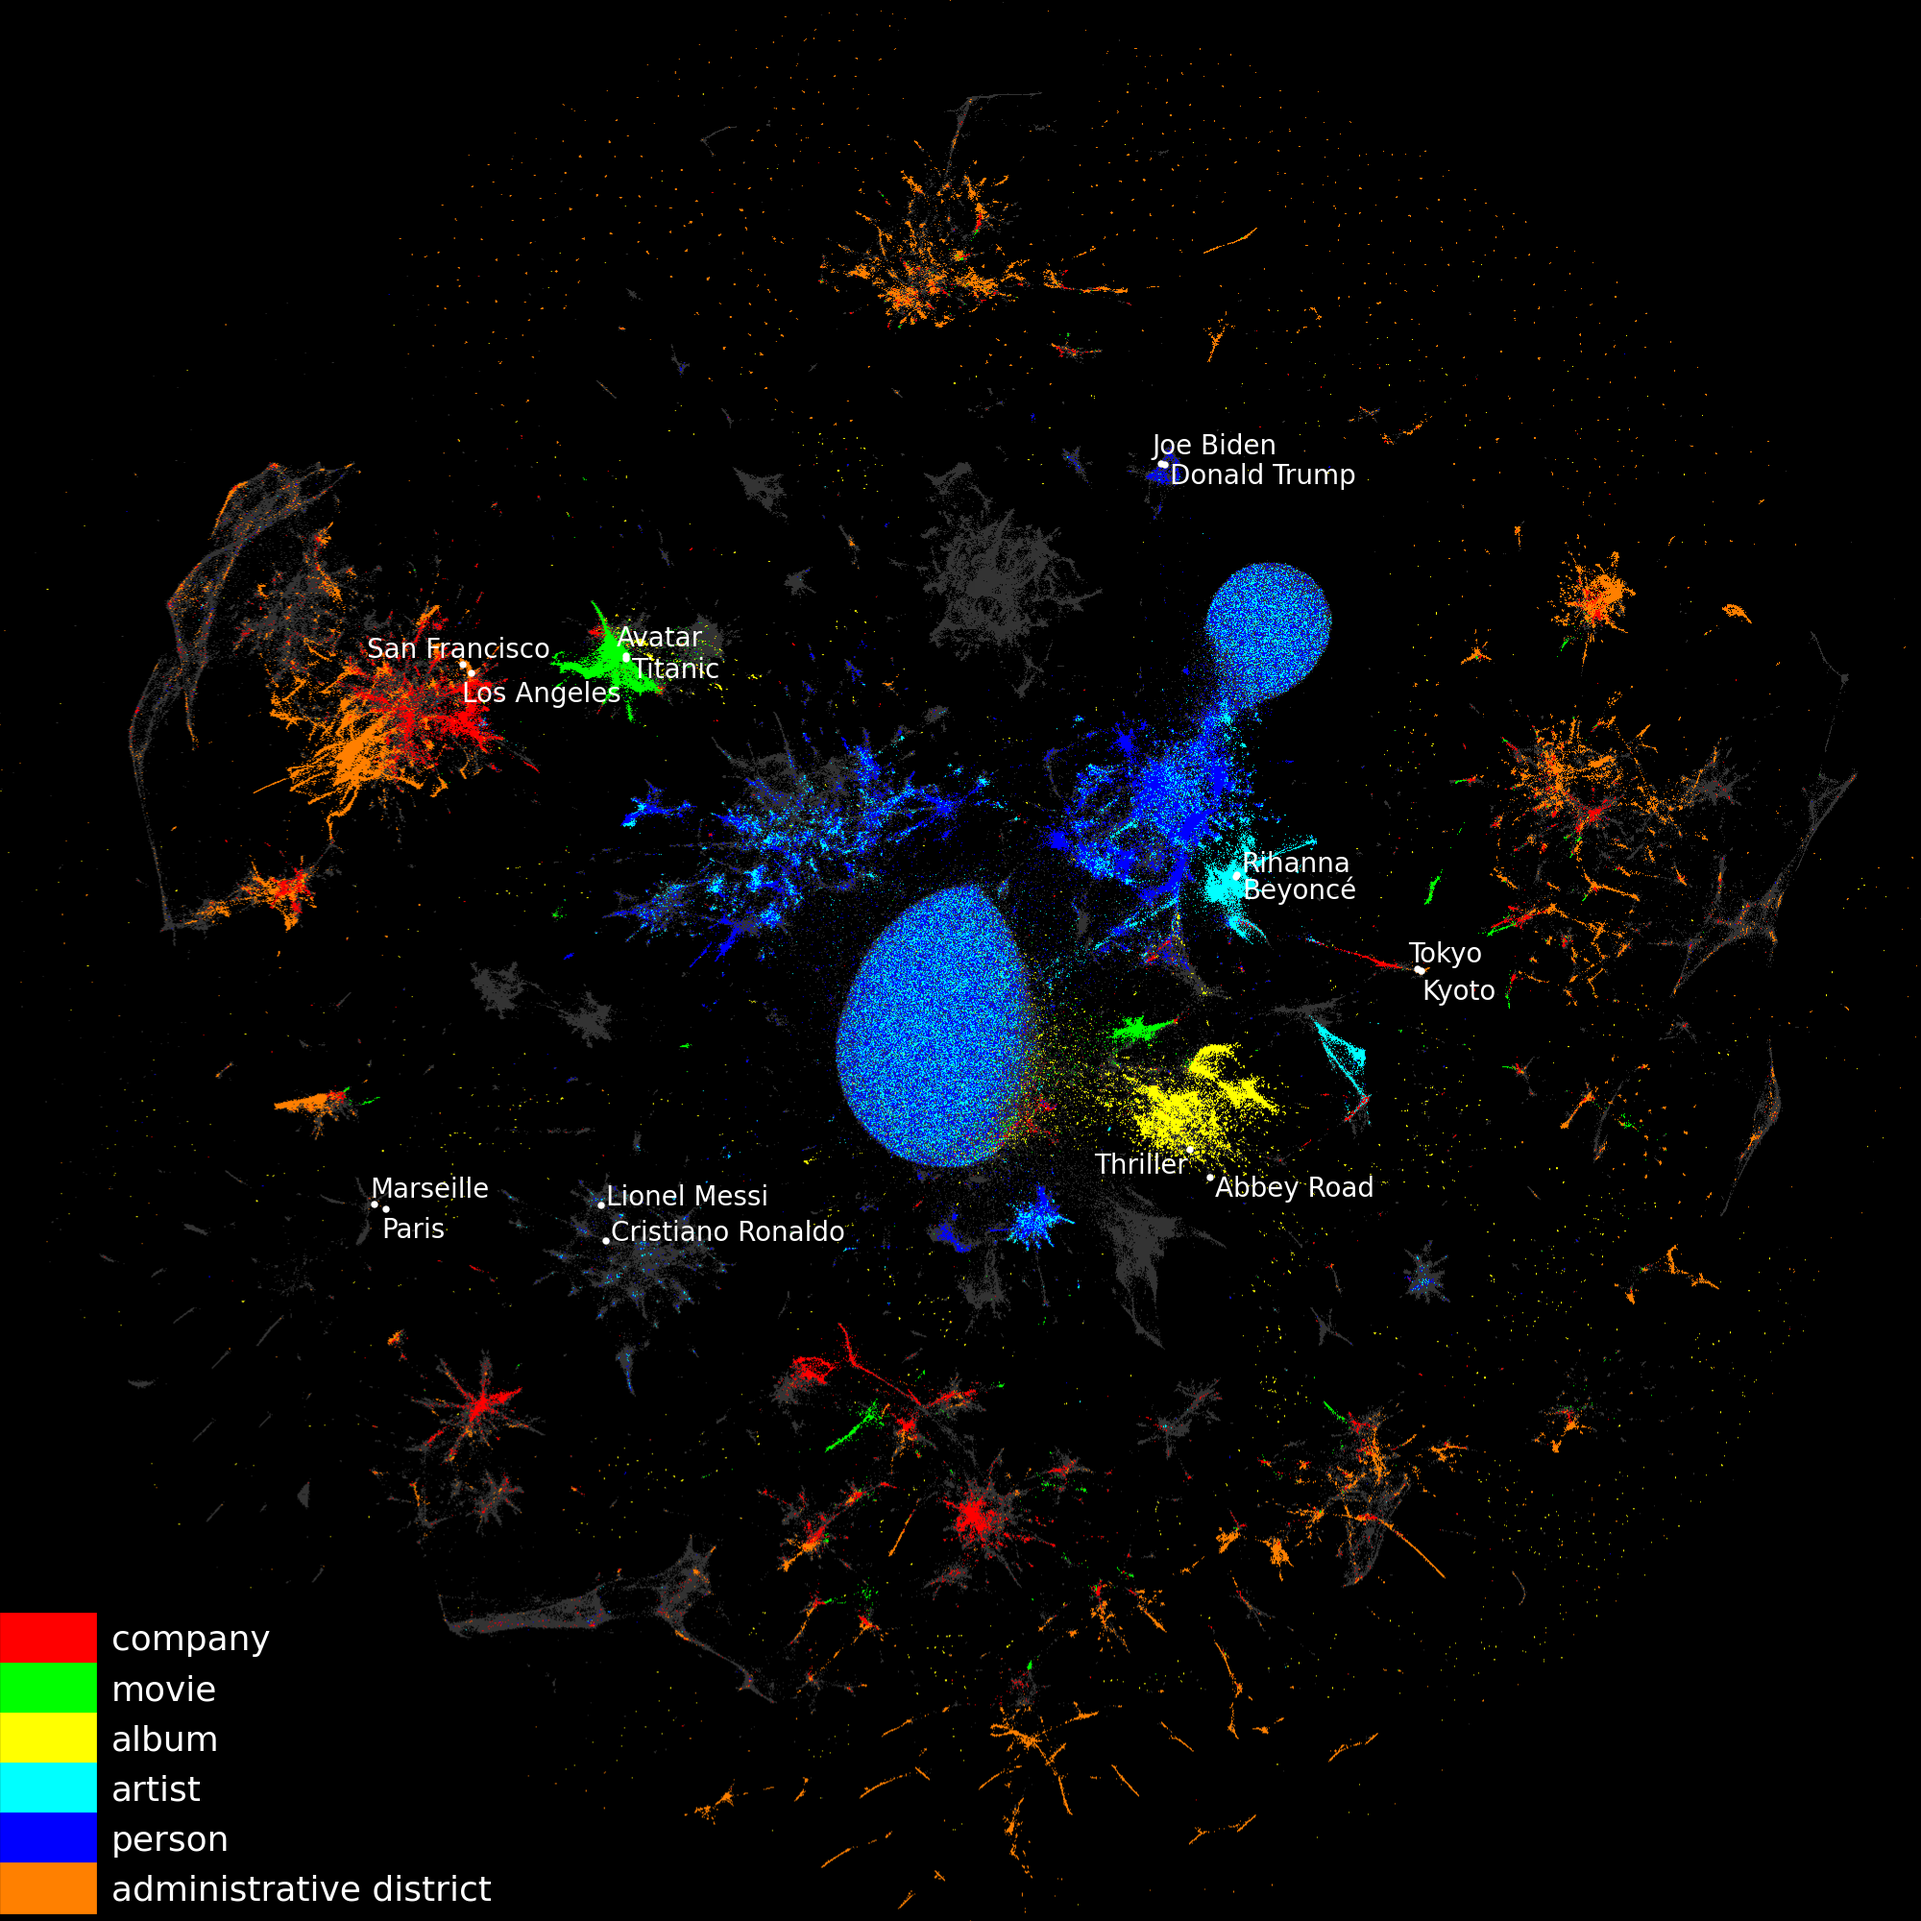
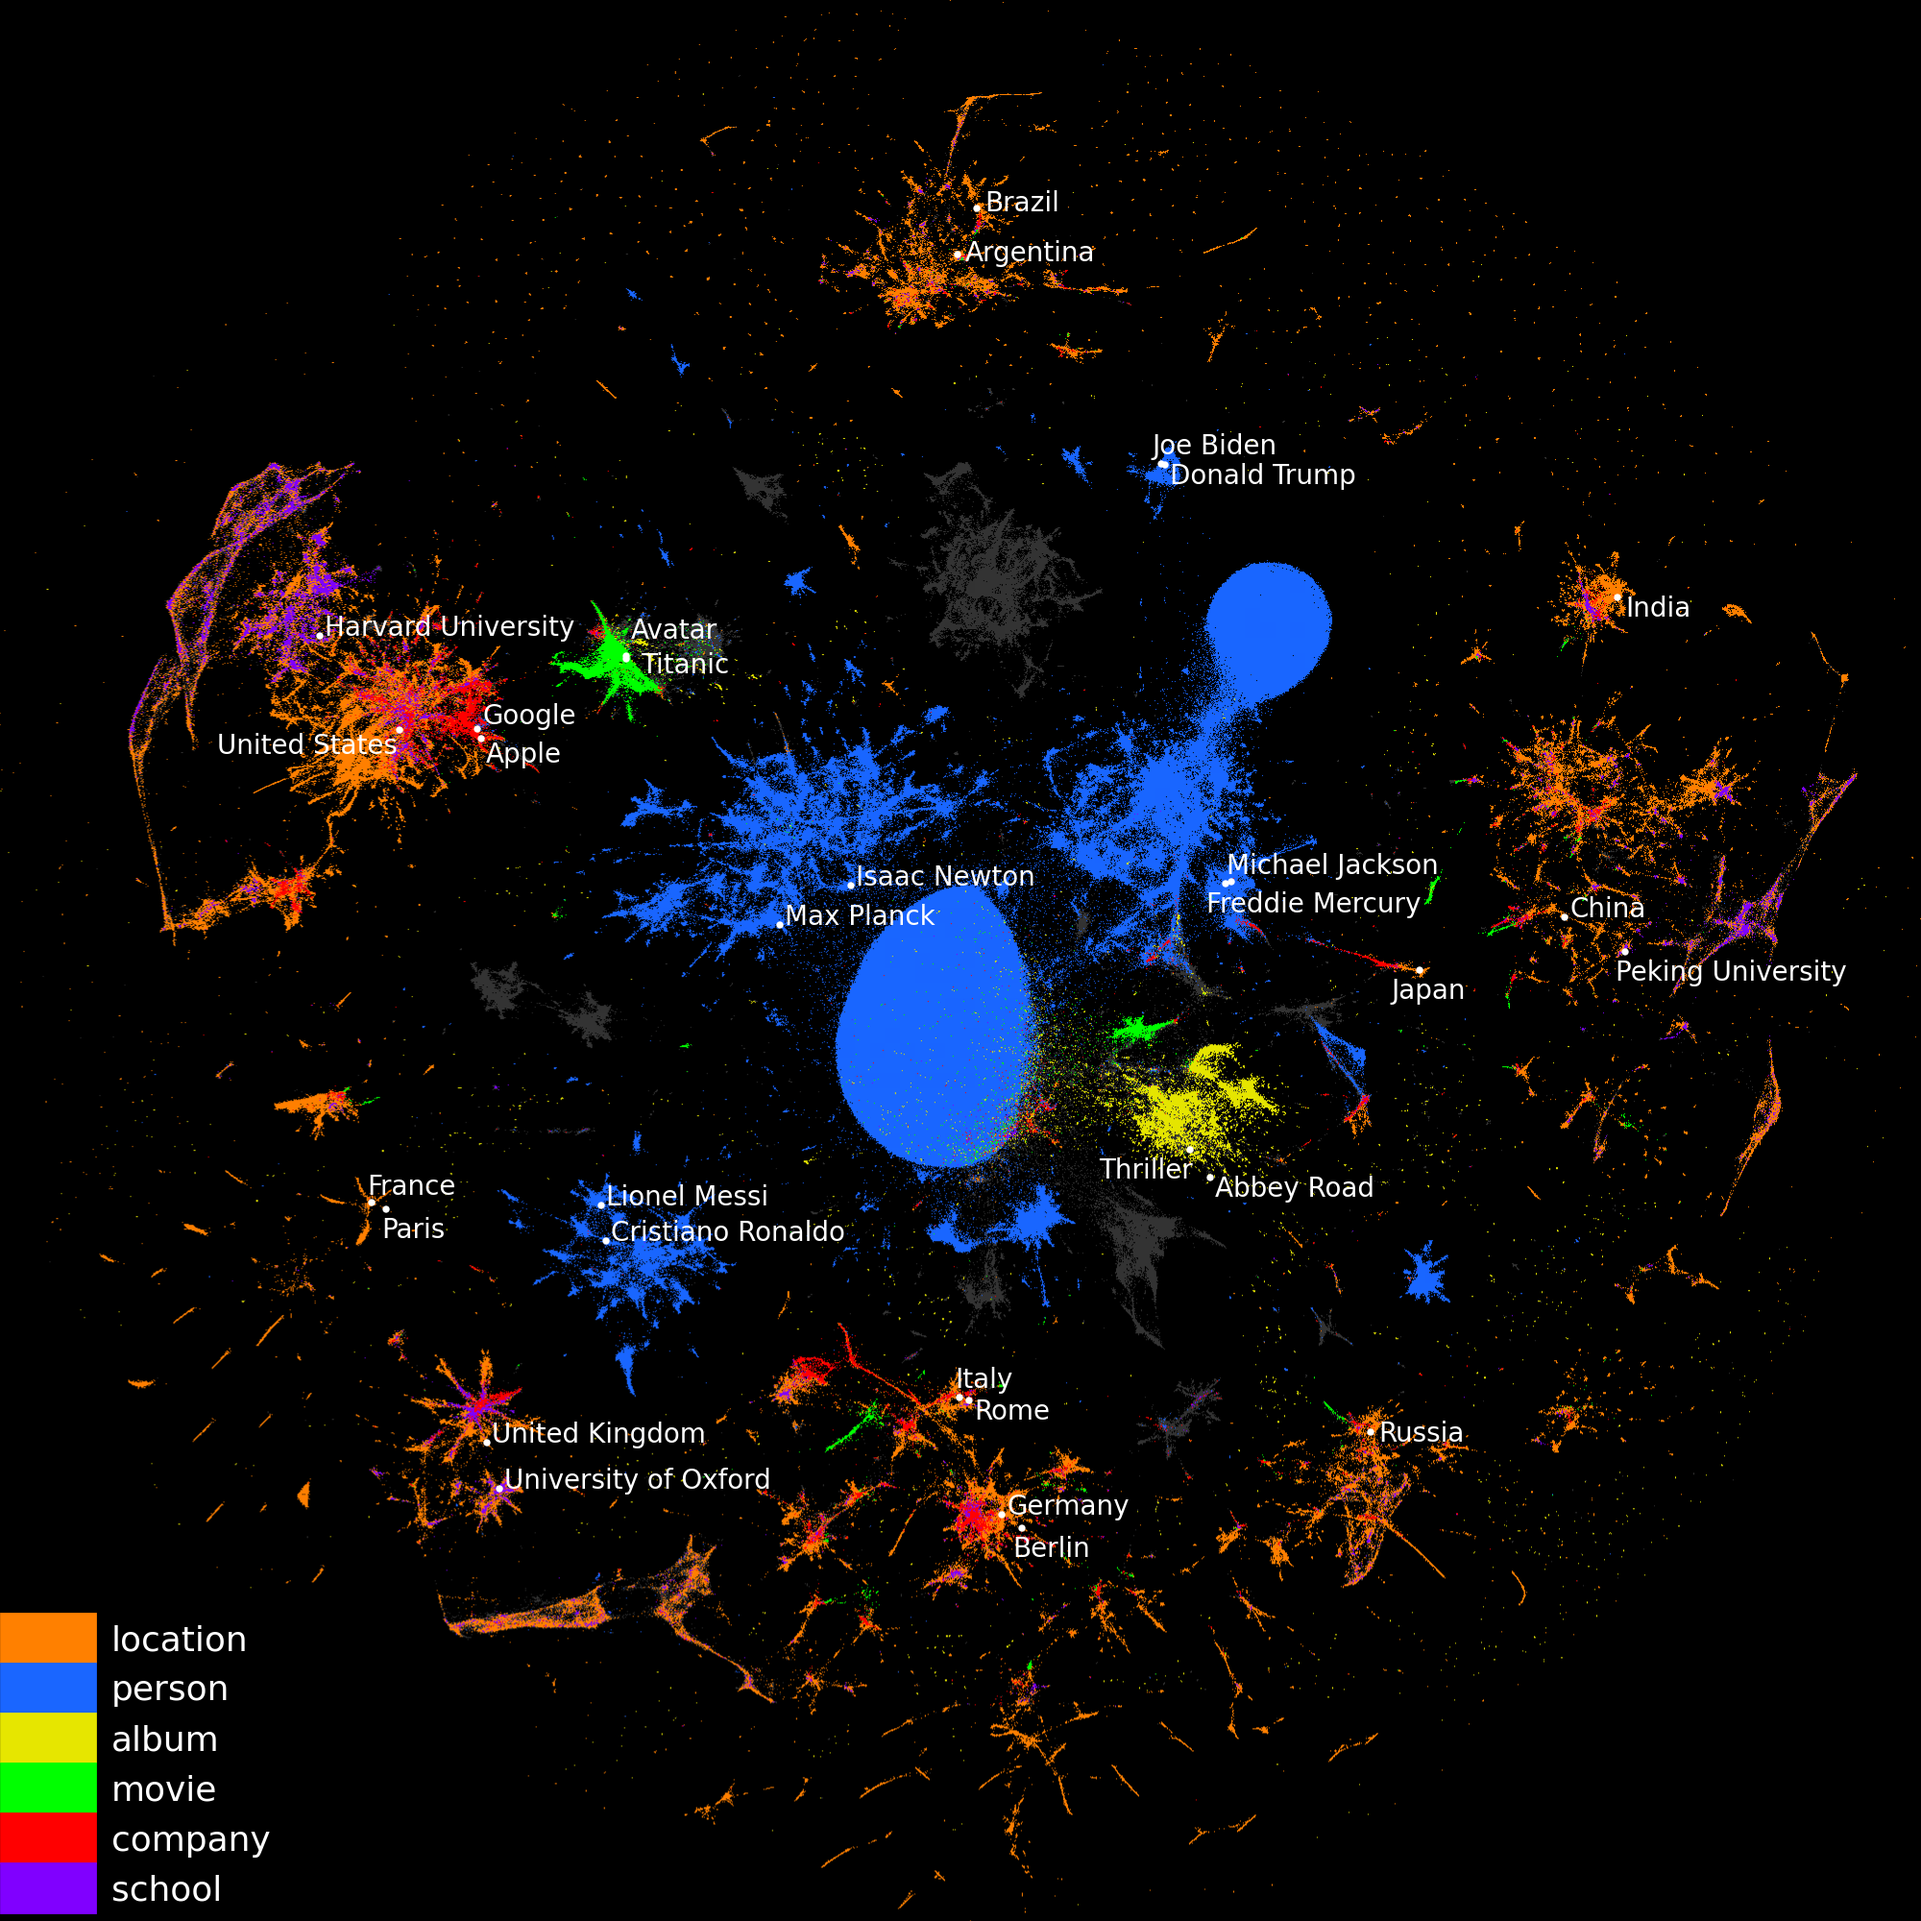
add famous entities on picture

diff --git a/scripts/plot_2d_embeddings.py b/scripts/plot_2d_embeddings.py
@@ -43,19 +43,32 @@ def plot_entity_types(add_entities: bool):
     df[["BN1", "BN2"]] = binnumber.T - 1
     df_bins = df.copy()
 
-    # Join most common entity types to df
+    ### Join most common entity types to df
     df_types = pd.read_parquet(repo_dir / "assets/data/entity_types.parquet")
-    df_types["Type"] = df_types["Type"].str.split("_").str[1:-1].str.join(" ")
-    types_color = {
-        "administrative district": (1, 0.5, 0),  # Orange
-        "person": (0, 0, 1),  # Blue
-        "artist": (0, 1, 1),  # Cyan
-        "album": (1, 1, 0),  # Yellow
+    # Filter only the types we want
+    clean_types = {
+        "<wordnet_person_100007846>": "person",
+        "<yagoGeoEntity>": "location",
+        "<wordnet_album_106591815>": "album",
+        "<wordnet_movie_106613686>": "movie",
+        "<wordnet_company_108058098>": "company",
+        "<wordnet_school_108276720>": "school",
+    }
+    mask = df_types["Type"].isin(clean_types.keys())
+    df_types = df_types[mask].copy()
+    df_types["Type"] = df_types["Type"].map(clean_types)
+    
+    # Include subtypes into more common types
+    type_colors = {
+        "location": (1, 0.5, 0),  # Orange
+        "person": (0.1, 0.4, 1),  # Blue
+        "album": (0.9, 0.9, 0),  # Yellow
         "movie": (0, 1, 0),  # Green
         "company": (1, 0, 0),  # Red
+        "school": (0.5, 0, 1), # Purple
     }
-    mask = df_types["Type"].isin(list(types_color.keys()))
-    df_types = df_types.loc[mask]
+    mask = df_types["Type"].isin(list(type_colors.keys()))
+    df_types = df_types.loc[mask].copy()
     df = df.merge(df_types, on="Entity")
     df = pd.get_dummies(df, columns=["Type"], prefix="", prefix_sep="")
 
@@ -71,7 +84,7 @@ def plot_entity_types(add_entities: bool):
     image[mask] = (0.2, 0.2, 0.2)  # Light gray
     # Color each bin according to its type
     for (ridx, cidx), ent_type in df.iteritems():
-        image[ridx, cidx] = types_color[ent_type]
+        image[ridx, cidx] = type_colors[ent_type]
     # Transpose image
     image = np.swapaxes(image, 0, 1)
 
@@ -85,10 +98,10 @@ def plot_entity_types(add_entities: bool):
     # Add legend
     patches = [
         mpatches.Patch(color=c, label=l.replace(" ", " "))
-        for l, c in types_color.items()
+        for l, c in type_colors.items()
     ]
     ax.legend(
-        handles=patches[::-1],
+        handles=patches,
         loc=(0, 0),
         prop={"size": 1.3},
         labelcolor="white",
@@ -96,13 +109,21 @@ def plot_entity_types(add_entities: bool):
     )
     # Add some entities
     entity_shifts = {
-        # Cities
+        # Locations
         "<Paris>": (-5, -30),
-        "<Marseille>": (-5, 7),
-        "<Tokyo>": (-10, 7),
-        "<Kyoto>": (0, -30),
-        "<Los_Angeles>": (-10, -30),
-        "<San_Francisco>": (-100, 7),
+        "<France>": (-5, 8),
+        "<Japan>": (-30, -30),
+        "<United_States>": (-190, -25),
+        "<Berlin>": (-10, -30),
+        "<Germany>": (5, 0),
+        "<Rome>": (5, -20),
+        "<Italy>": (-5, 10),
+        "<United_Kingdom>": (5, 0),
+        "<India>": (8, -20),
+        "<Brazil>": (8, -3),
+        "<Argentina>": (8, -7),
+        "<China>": (5, 0),
+        "<Russia>": (8, -10),
         # Politicians
         "<Joe_Biden>": (-10, 10),
         "<Donald_Trump>": (5, -20),
@@ -110,21 +131,32 @@ def plot_entity_types(add_entities: bool):
         "<Lionel_Messi>": (5, 0),
         "<Cristiano_Ronaldo>": (5, 0),
         # Artists
-        "<Beyoncé>": (5, -25),
-        "<Rihanna>": (5, 5),
+        "<Freddie_Mercury>": (-20, -30),
+        "<Michael_Jackson>": (-5, 8),
         # Movies
-        "<Avatar_(2009_film)>": (-10, 10),
-        "<Titanic_(1997_film)>": (5, -20),
+        "<Avatar_(2009_film)>": (5, 18),
+        "<Titanic_(1997_film)>": (15, -15),
         # Albums
-        "<Thriller_(Michael_Jackson_album)>": (-100, -25),
+        "<Thriller_(Michael_Jackson_album)>": (-95, -30),
         "<Abbey_Road>": (5, -20),
+        # Companies
+        "<Google>": (5, 5),
+        "<Apple_Inc.>": (5, -25),
+        # Scientists
+        "<Max_Planck>": (5, 0),
+        "<Isaac_Newton>": (5, 0),
+        # Universities
+        "<University_of_Oxford>": (5, 0),
+        "<Harvard_University>": (5, 0),
+        "<Peking_University>": (-10, -30),
+        
     }
     if add_entities:
         mask = df_bins["Entity"].isin(entity_shifts.keys())
         for _, ent, x, y in df_bins.loc[mask].itertuples():
             sx, sy = entity_shifts[ent]
             clean_ent = ent[1:-1].replace("_", " ")
-            if "film" in clean_ent or "album" in clean_ent:
+            if any(s in clean_ent for s in ["film", "album", "Inc."]):
                 clean_ent = clean_ent.split(" ")[0]
             ax.scatter(x, y, s=0.07, c="white", edgecolors="none")
             ax.text(x + sx, y + sy, clean_ent, c="white", size=0.5)
